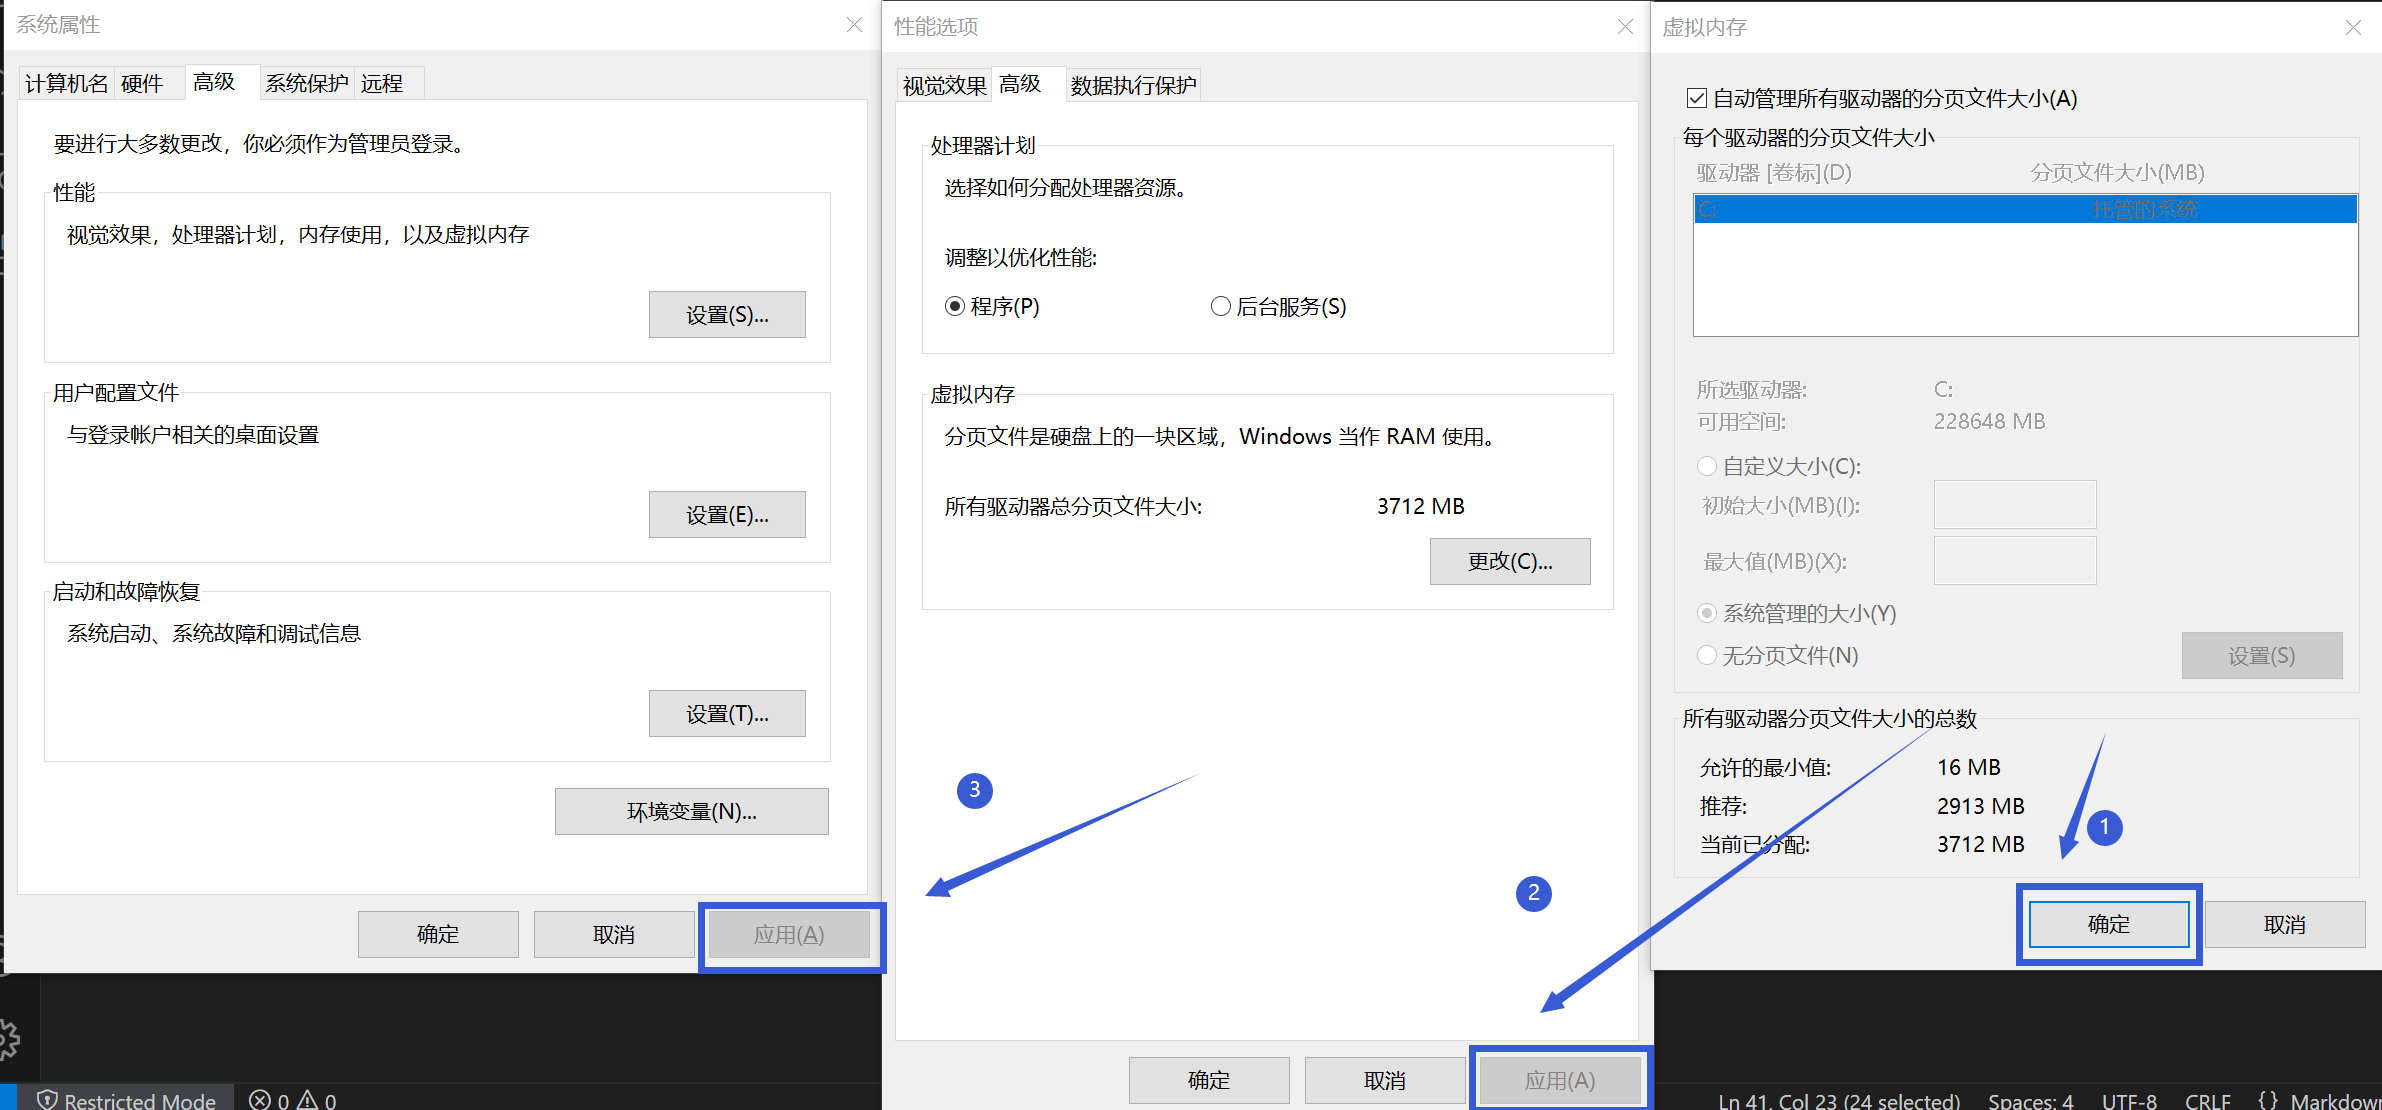
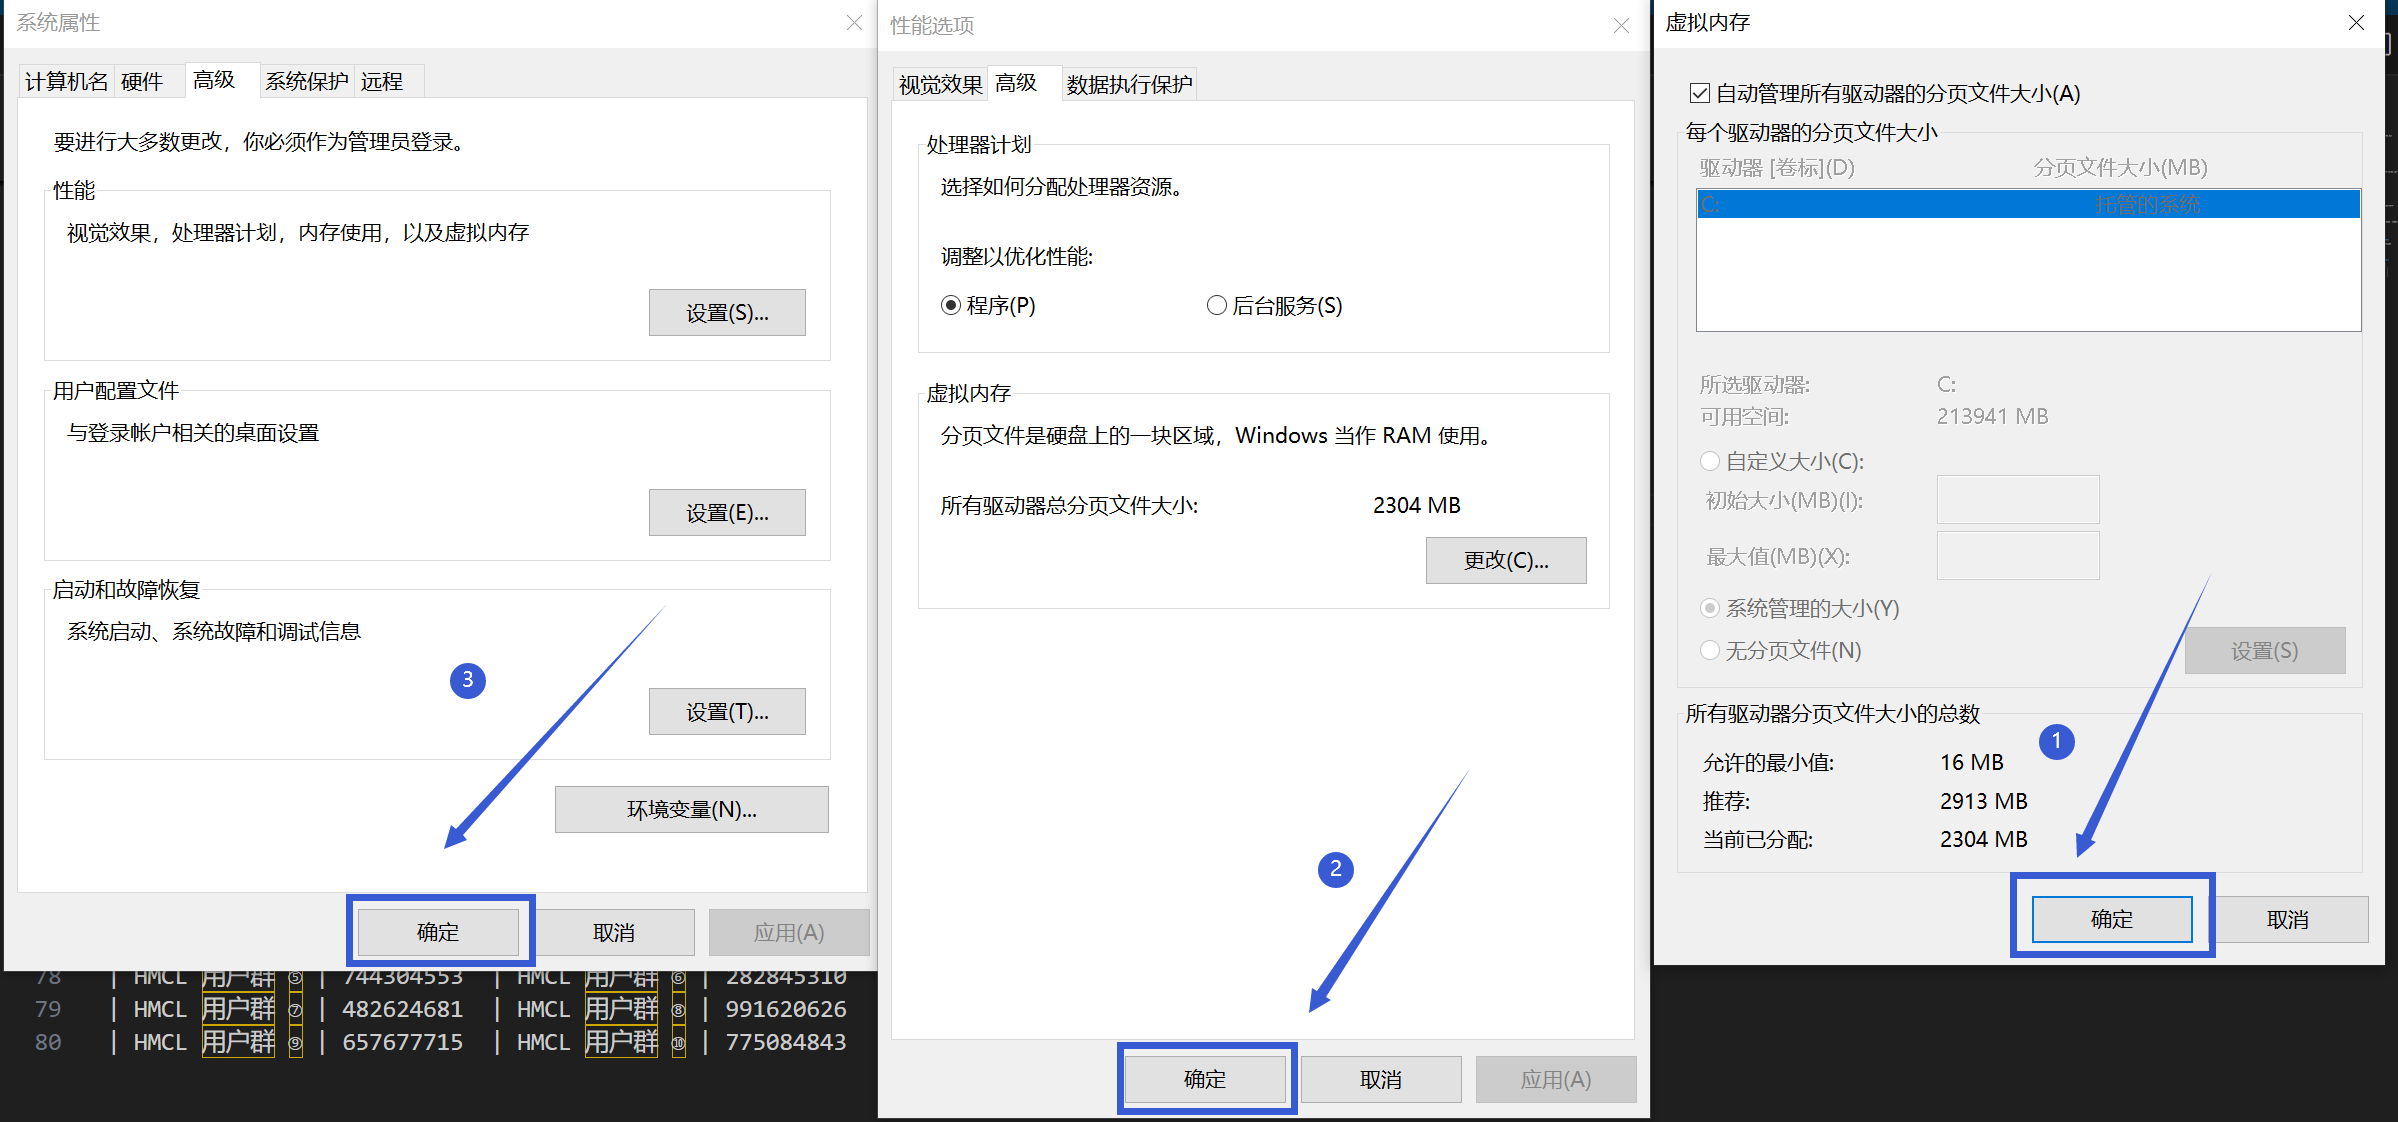
Guide Change

diff --git a/docs/guide/memory.md b/docs/guide/memory.md
@@ -61,7 +61,7 @@ https://img.kookapp.cn/attachments/2025-02/12/67acc25dc5f06.bat
 
 **如果没有其他剩余容量大于 80GB 的盘，请截图并到崩溃群询问**
 
-之后按下图的顺序依次点击"确定"，"应用"，"应用"，然后重启电脑。
+之后按下图的顺序依次点击"确定"，"确定"，"确定"，然后重启电脑。
 
 <br>
 

diff --git a/docs/guide/variables.md b/docs/guide/variables.md
@@ -34,7 +34,7 @@ title: 环境变量问题
 
 <br>
 
-填写完成后按下图依次点击"确定","确定","应用",最后重启电脑。
+填写完成后按下图依次点击"确定","确定","确定",最后重启电脑。
 
 <br>
 

diff --git a/docs/guide/cpu.md b/docs/guide/cpu.md
@@ -4,7 +4,7 @@ title: 处理器 问题相关
 
 # 处理器 问题相关
 
-## Windows查看显卡
+## Windows查看处理器
 
 **如果你是在崩溃群被要求查看处理器，请严格按照此条操作！**
 
